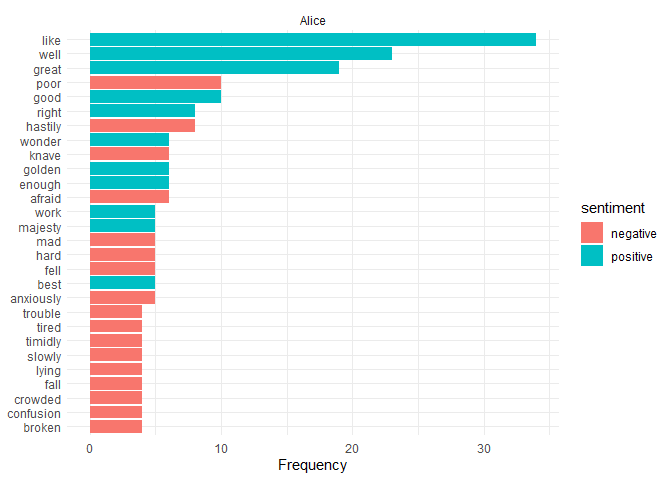
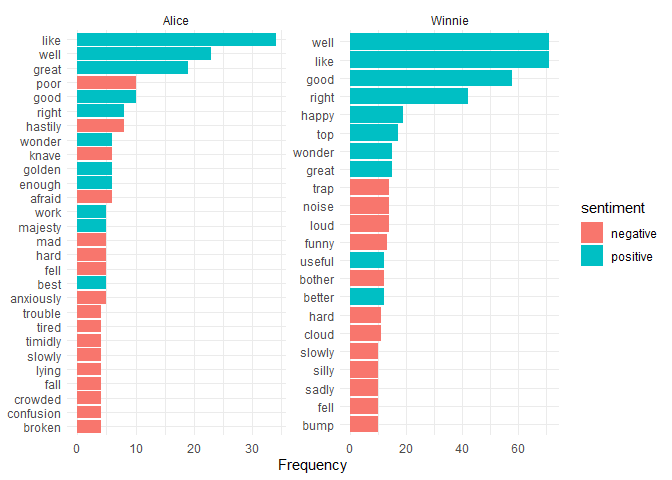
text workshop

diff --git a/apprenticeship/apprenticeship_2025h1/text.md b/apprenticeship/apprenticeship_2025h1/text.md
@@ -1,7 +1,7 @@
 ---
 title: "Data Center Apprenticeship:\nText analysis in R"
 subtitle: "January 2025" 
-date: "Last updated: 2024-12-24"
+date: "Last updated: 2025-01-17"
 output:
   md_document:
     variant: gfm
@@ -45,7 +45,7 @@ library(gutenbergr)
 # Download books based on their Gutenberg ID
 # https://gutenberg.org/ebooks/19033
 # https://gutenberg.org/ebooks/67098
-books <- gutenberg_download(c(19033, 67098))
+books <- gutenberg_download(c(19033, 67098), mirror = "http://mirror.csclub.uwaterloo.ca/gutenberg/")
 ```
 
 # Representing text as data
@@ -351,10 +351,11 @@ words |>
   summarize(score = sum(value_n) / sum(n))
 ```
 
-    ## # A tibble: 1 × 2
+    ## # A tibble: 2 × 2
     ##   book_title score
     ##   <chr>      <dbl>
     ## 1 Alice      0.124
+    ## 2 Winnie     0.810
 
 ## Topic modelling
 
@@ -434,10 +435,11 @@ document_topic |>
   pivot_wider(names_from = topic, values_from = gamma)
 ```
 
-    ## # A tibble: 1 × 3
-    ##   document   `1`   `2`
-    ##   <chr>    <dbl> <dbl>
-    ## 1 Alice    0.528 0.472
+    ## # A tibble: 2 × 3
+    ##   document        `1`        `2`
+    ##   <chr>         <dbl>      <dbl>
+    ## 1 Alice    0.00000788 1.00      
+    ## 2 Winnie   1.00       0.00000338
 
 Nevertheless, topic modelling can be very useful for larger collections
 of documents, where it can help to identify the main themes present in

diff --git a/apprenticeship/apprenticeship_2025h1/strings.md b/apprenticeship/apprenticeship_2025h1/strings.md
@@ -1,0 +1,27 @@
+---
+title: "Data Center Apprenticeship:\nCharacter strings and regular expression"
+subtitle: "January 2025" 
+date: "Last updated: 2025-01-17"
+output:
+  md_document:
+    variant: gfm
+    preserve_yaml: true
+    toc: true
+---
+
+To learn about how to handle character strings using regular
+expressions, we follow the case study in Chapter 17.1-17.7 of
+“Introduction to Data Science” by Rafael A. Irizarry.
+
+The tutorial works with a dataset of self-reported heights, and covers
+both the most important functions for handling strings in R (with the
+`stringr` package) and the basics of describing patterns in strings with
+regular expressions.
+
+Please use [this
+link](https://rafalab.dfci.harvard.edu/dsbook-part-1/wrangling/string-processing.html)
+to follow the tutorial.
+
+In addition, [this
+cheatsheet](https://evoldyn.gitlab.io/evomics-2018/ref-sheets/R_strings.pdf)
+provides a brief summary of the key functions and regex patterns.
